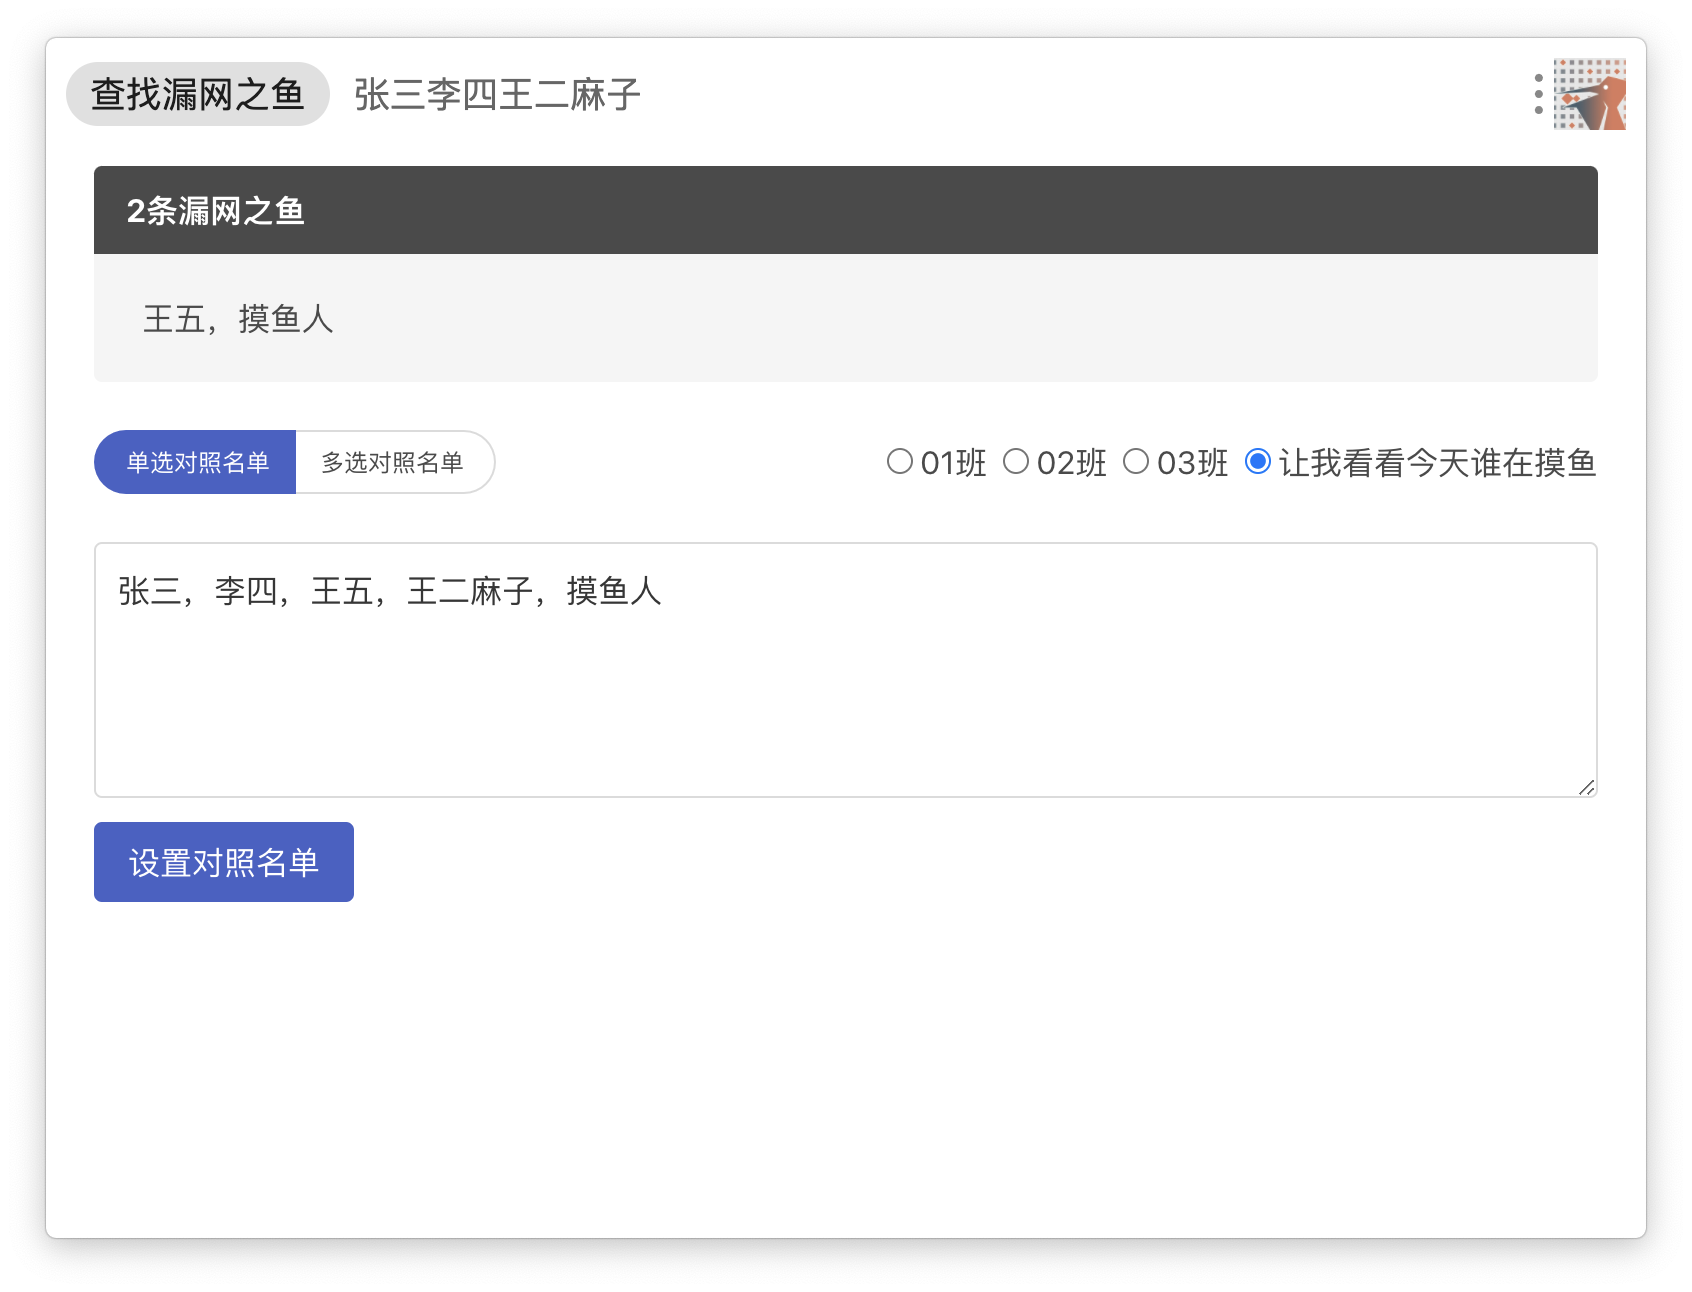
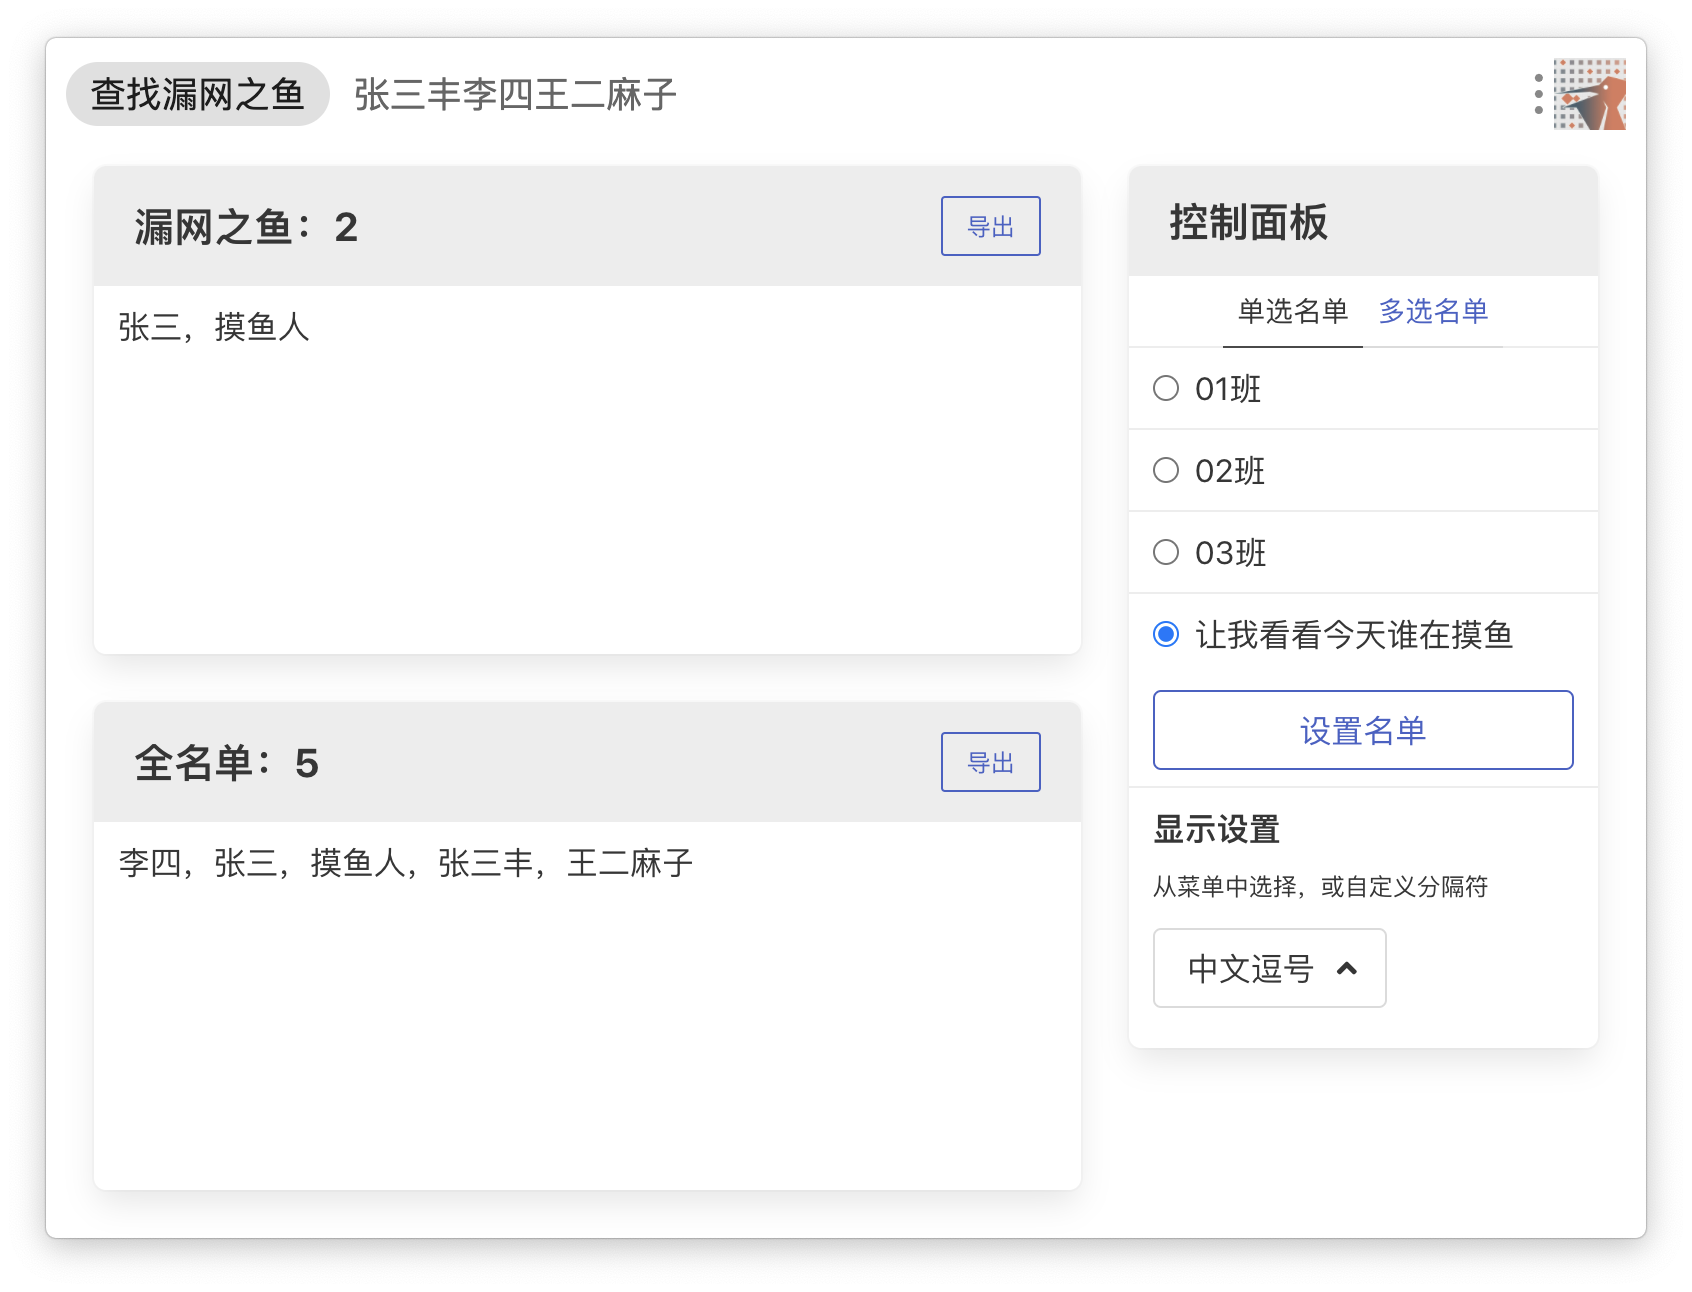
Update README

diff --git a/README.md b/README.md
@@ -20,13 +20,14 @@
 支持的具体功能如下：
 
 - 针对任意文本（无论名字间是否有分隔符），对照单个或多个名单查找缺失的名字，并可同时查看此时正在使用的全名单
-  - 可以直接在插件内输入文本
-  - 🌟 可以选中任意文本（甚至excel表格），然后通过utools快捷面板一键呼出“查找漏网之鱼”
-  - *注：如果“张三”和“张三丰”同时存在，会首先匹配更长的“张三丰”；如果查询字符串有歧义，例如“张三丰子恺”，可以手动在名字间添加分隔来消歧*
-- 支持设置名单，自动从文本中识别连续英文字母和汉字字符构成的名字（空格、逗号等其他字符作为分断）
-  - 可以直接在设置输入框内键入文本
-  - 可以上传文件
-  - 🌟 可以选中任意文本（甚至excel表格），然后通过utools快捷面板一键呼出“新建名单”
+  - 🌟 可以选中任意文本（甚至excel表格），然后通过utools快捷面板一键呼出“查找漏网之鱼”；也可以直接在插件文本框内输入搜索文本
+    - *注：如果“张三”和“张三丰”同时存在，会首先匹配更长的“张三丰”；如果查询字符串有歧义，例如“张三丰子恺”，可以手动在名字间添加分隔来消歧*
+  - ✅ 支持单选/多选名单
+  - ✅ 支持设置输出名字之间的分隔符，也可自定义分隔符
+  - ✅ 支持导出查找结果/全名单到文件
+- 支持设置不同名单，自动从文本中识别连续英文字母和汉字字符构成的名字（空格、逗号等其他字符作为分断）
+  - 🌟 可以选中任意文本（甚至excel表格），然后通过utools快捷面板一键呼出“新建名单”；也可以直接在设置输入框内键入名单文本，或上传文本文件
+    - *注：目前支持上传txt、csv、md、markdown后缀文本文件*
 
 
 
